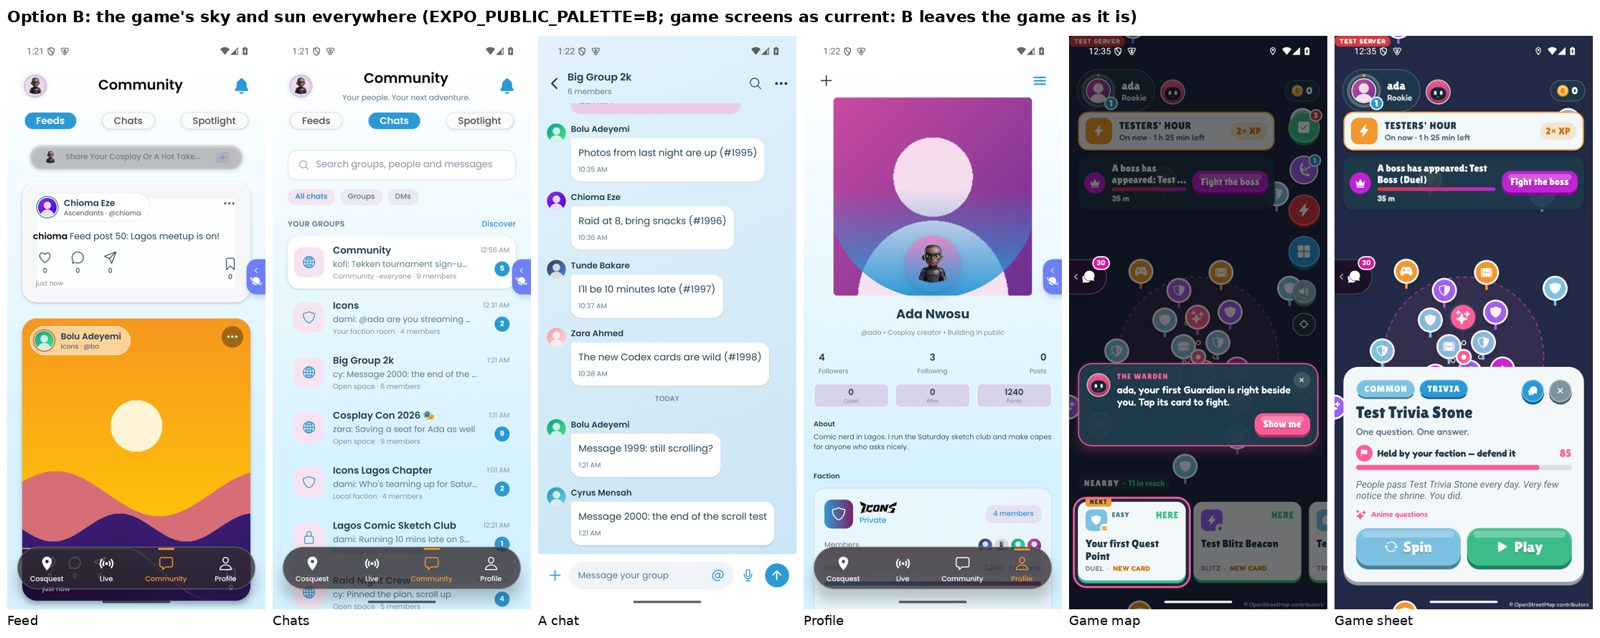
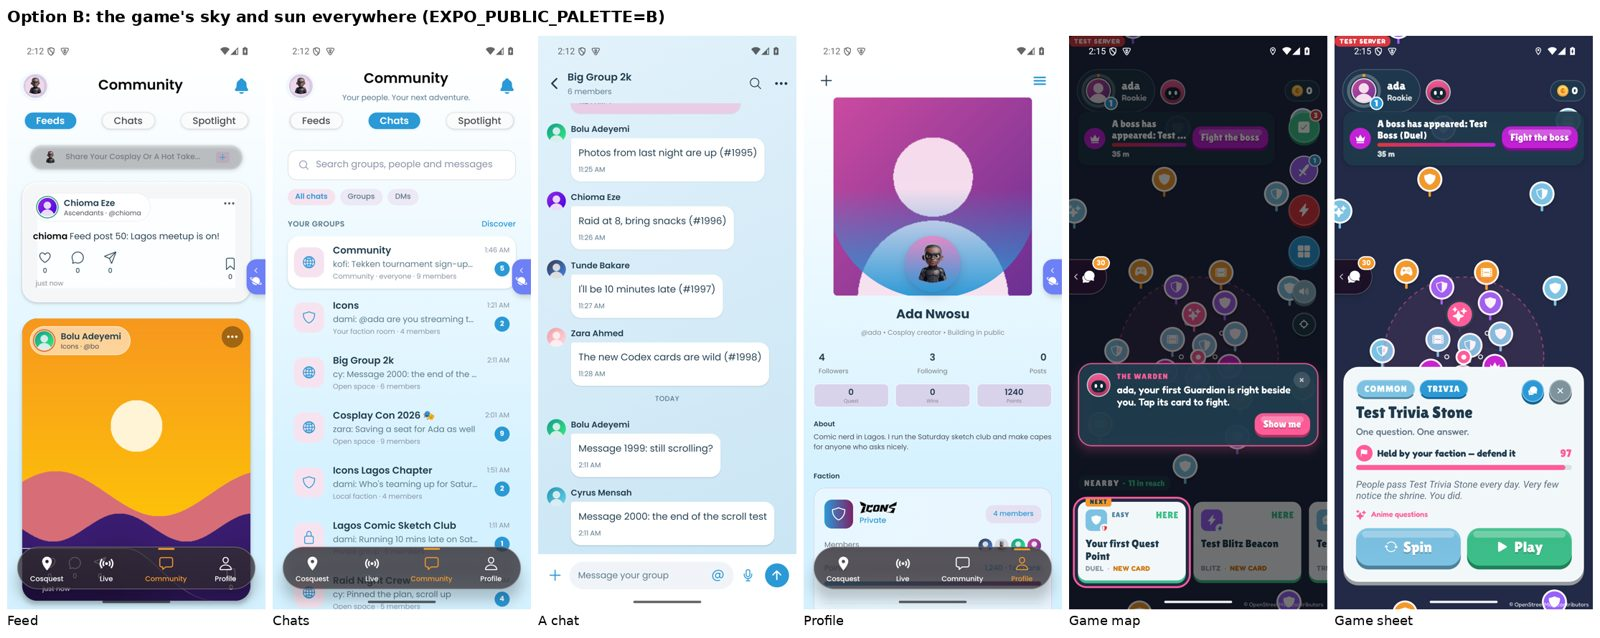
Palette board: option B from its own full run

diff --git a/docs/polish/PALETTE.md b/docs/polish/PALETTE.md
@@ -22,7 +22,7 @@ The game's main buttons, highlights and rings turn the brand pink; its sky and i
 
 ## B: the game's sky and sun everywhere
 
-The chat's brand pink turns the game's deep sky blue (buttons, links, selected tabs, unread dots), its ink the game's navy, its pale screens the game's ice. The game is unchanged (its two screens on this board are from the current build: B changes no game colour). The B build's screen run did not reach the game in four tries: each time, after the 2,000-message chat and the profile, the app was closed while opening the Community tab (Android tore the screen down; the same steps by hand worked, and the C build failed the same way three times and passed once, the current build passed). Recorded under "Left" in the task report; check it on a phone before shipping B.
+The chat's brand pink turns the game's deep sky blue (buttons, links, selected tabs, unread dots), its ink the game's navy, its pale screens the game's ice. The game is unchanged.
 
 ![B](palette/B.jpg)
 
